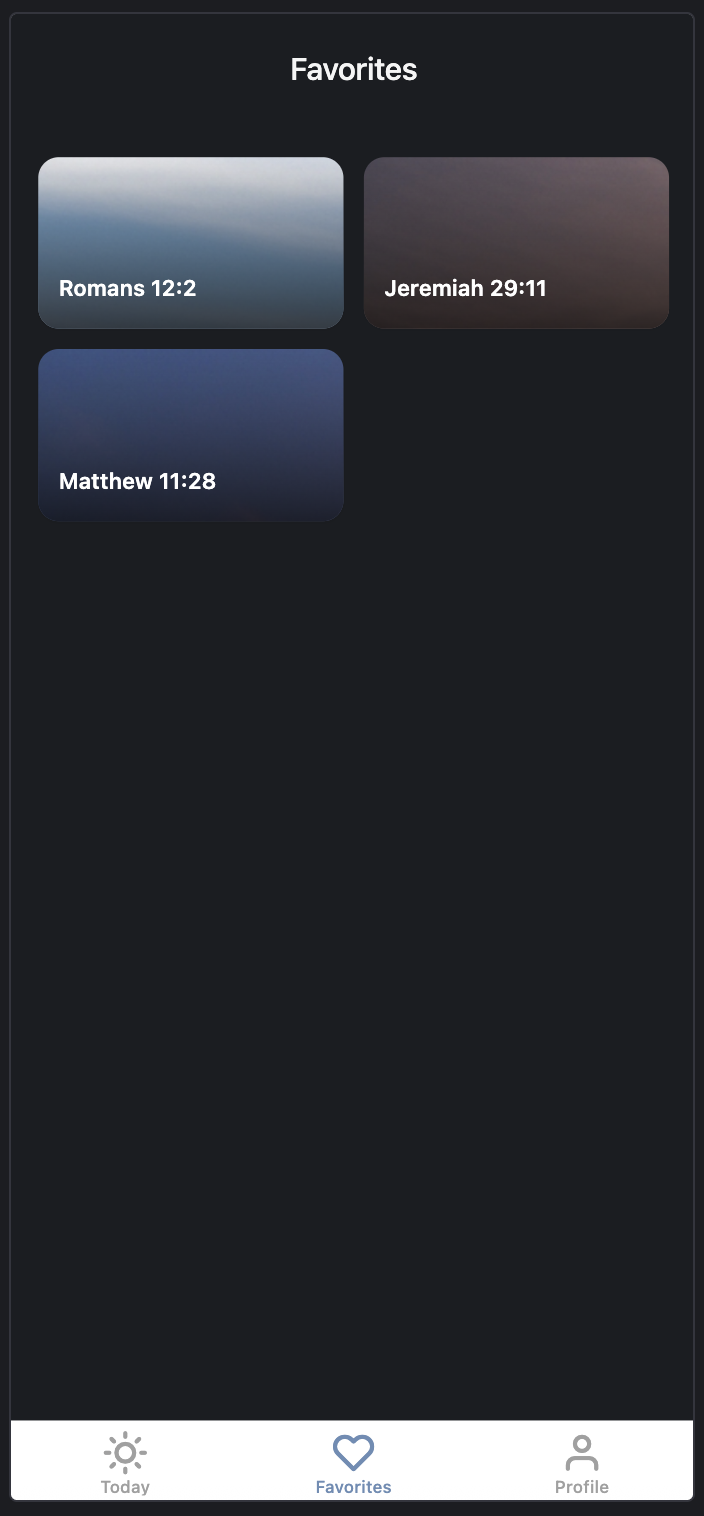
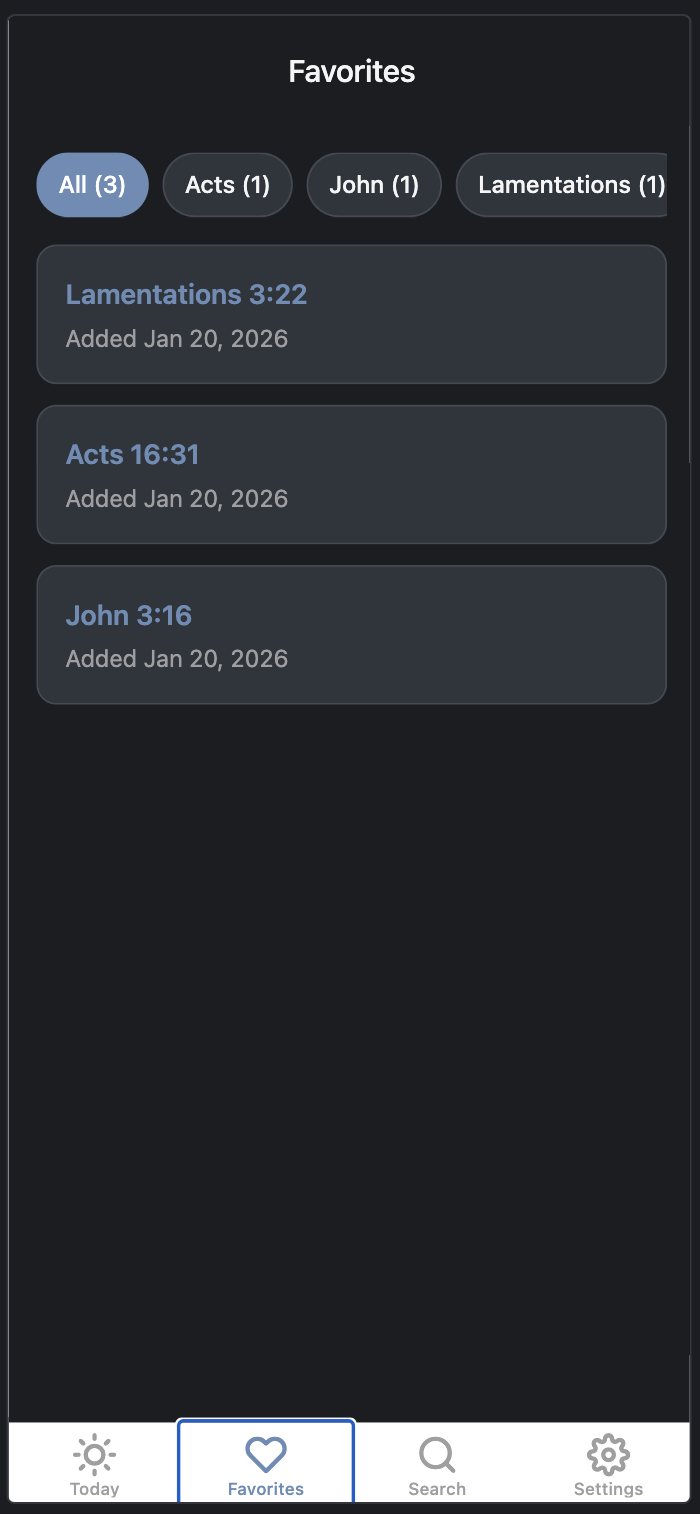
add back screenshots

Changed region(s): [[0.0, 0.0, 0.99, 0.9934], [0.42, 0.031, 0.6, 0.0621]]

diff --git a/index.html b/index.html
@@ -90,6 +90,41 @@
             </div>
         </div>
 
+        <!-- Screenshots Section -->
+        <div class="mb-12">
+            <h2 class="text-2xl font-bold text-center mb-6">See It In Action</h2>
+            <div class="grid grid-cols-1 md:grid-cols-2 gap-6">
+                <div class="bg-gray-800 rounded-xl overflow-hidden shadow-xl">
+                    <img src="public/Screenshot-today.png" alt="Today screen with verse card" class="w-full h-auto">
+                    <div class="p-4">
+                        <h3 class="text-white font-semibold mb-1">Today</h3>
+                        <p class="text-gray-400 text-sm">View your daily verse with beautiful backgrounds</p>
+                    </div>
+                </div>
+                <div class="bg-gray-800 rounded-xl overflow-hidden shadow-xl">
+                    <img src="public/Screenshot-favorites.png" alt="Favorites screen" class="w-full h-auto">
+                    <div class="p-4">
+                        <h3 class="text-white font-semibold mb-1">Favorites</h3>
+                        <p class="text-gray-400 text-sm">Save and organize your favorite verses</p>
+                    </div>
+                </div>
+                <div class="bg-gray-800 rounded-xl overflow-hidden shadow-xl">
+                    <img src="public/Screenshot-search.png" alt="Search screen" class="w-full h-auto">
+                    <div class="p-4">
+                        <h3 class="text-white font-semibold mb-1">Search</h3>
+                        <p class="text-gray-400 text-sm">Find verses by book, chapter, and verse</p>
+                    </div>
+                </div>
+                <div class="bg-gray-800 rounded-xl overflow-hidden shadow-xl">
+                    <img src="public/Screenshot-memorization.png" alt="Memorization mode screen" class="w-full h-auto">
+                    <div class="p-4">
+                        <h3 class="text-white font-semibold mb-1">Memorization</h3>
+                        <p class="text-gray-400 text-sm">Practice memorizing with progressive word hiding</p>
+                    </div>
+                </div>
+            </div>
+        </div>
+
         <!-- Verse Card Preview -->
         <div class="mb-6">
             <h2 class="text-2xl font-bold text-center mb-4">Experience Beautiful Verse Cards</h2>

diff --git a/public/README.md b/public/README.md
@@ -6,7 +6,7 @@ Place your images here:
 - `screenshot-today.jpg` - Today screen with verse card
 - `screenshot-favorites.jpg` - Favorites screen
 - `screenshot-search.jpg` - Search screen  
-- `screenshot-about.jpg` - About screen
+- `screenshot-memorization.jpg` - Memorization screen
 
 ## Background Images
 - `verse-background.jpg` - The beautiful sunset/sunrise background image for verse cards
